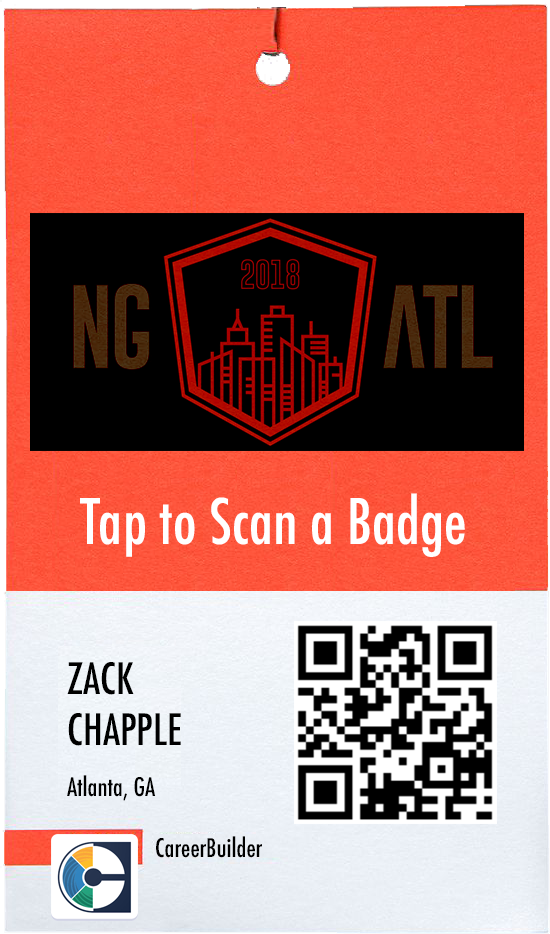
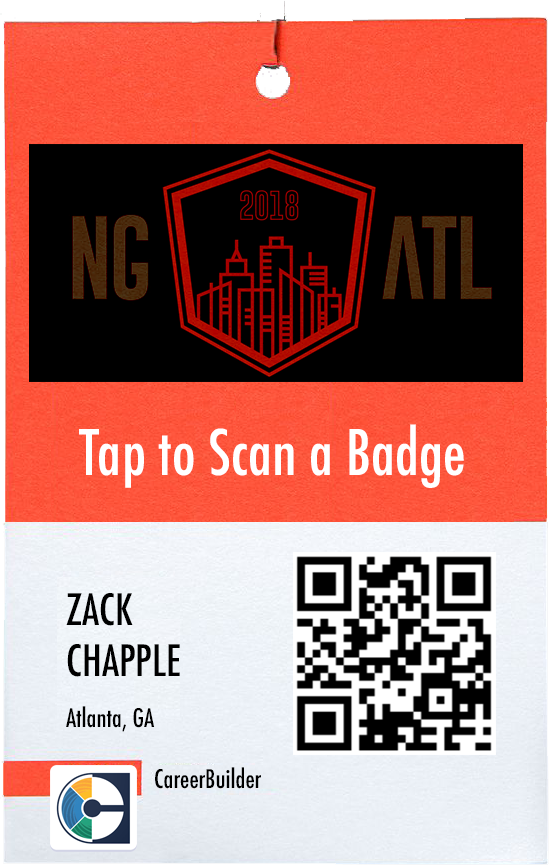
feat: home polish

diff --git a/apps/mobile/app/modules/home/components/dashboard/dashboard.component.ts b/apps/mobile/app/modules/home/components/dashboard/dashboard.component.ts
@@ -18,6 +18,11 @@ import { BaseComponent, UserActions, ModalActions, WindowService, ProgressServic
 
 // nativescript
 import { BarcodeScanner } from "nativescript-barcodescanner";
+import { Page } from 'tns-core-modules/ui/page';
+import { AnimationCurve } from 'tns-core-modules/ui/enums';
+import { View } from 'tns-core-modules/ui/core/view';
+import { Animation, AnimationDefinition } from 'tns-core-modules/ui/animation';
+import { screen, isIOS } from 'tns-core-modules/platform';
 
 // app
 import { BarcodeComponent } from '../../../shared/components/barcode/barcode.component';
@@ -37,8 +42,141 @@ export class DashboardComponent extends BaseComponent implements AfterViewInit, 
     private _vcRef: ViewContainerRef,
     private _win: WindowService,
     private _progressService: ProgressService,
+    private _page: Page,
   ) {
     super();
+    this._page.backgroundImage = 'res://home-bg';
+  }
+
+  public setupPage(e) {
+    console.log('setupPage:');
+    console.log(e.object);
+    console.log('screen:');
+    console.log(screen.mainScreen.widthDIPs + 'x' + screen.mainScreen.heightDIPs);
+    const top = <View>this._page.getViewById('badge-top');
+    const bottom = <View>this._page.getViewById('badge-bottom');
+    // console.log('image:', top);
+    // console.log('image width:', top.effectiveWidth);
+
+    bottom.animate({
+      translate: {
+        x: (screen.mainScreen.widthDIPs/2) - 275,
+        y: -600
+      },
+      scale: {
+        x: .6,
+        y: .6,
+      },
+      rotate:3,
+      duration: 1,
+      iterations: 1,
+    }).then(_ => {
+      bottom.animate({
+        translate: {
+          x: (screen.mainScreen.widthDIPs/2) - 275,
+          y: -80
+        },
+        scale: {
+          x: .6,
+          y: .6,
+        },
+        rotate: -8,
+        duration: 800,
+        iterations: 1,
+        curve: AnimationCurve.easeIn// AnimationCurve.spring
+      });
+    });
+
+    top.animate({
+      translate: {
+        x: (screen.mainScreen.widthDIPs/2) - 42,
+        y: -600
+      },
+      scale: {
+        x: .4,
+        y: .4,
+      },
+      rotate: 0,
+      duration: 1,
+      iterations: 1,
+    }).then(_ => {
+      top.animate({
+        translate: {
+          x: (screen.mainScreen.widthDIPs/2) - 42,
+          y: -180
+        },
+        scale: {
+          x: .4,
+          y: .4,
+        },
+        rotate: 18,
+        duration: 800,
+        iterations: 1,
+        curve: AnimationCurve.easeIn,
+      });
+    });
+
+    this._playBeacon();
+  }
+
+  private _playBeacon(delay: number = 1000) {
+    if (this._page) {
+      const beacon = <View>this._page.getViewById('beacon');
+      if (beacon) {
+        beacon.animate({
+          translate: {
+            x: (screen.mainScreen.widthDIPs/2) - 46,
+            y: 260
+          },
+          scale: {
+            x: .5,
+            y: .5,
+          },
+          opacity:0,
+          duration: 1,
+          iterations: 1
+        }).then(_ => {
+          beacon.animate({
+            translate: {
+              x: (screen.mainScreen.widthDIPs/2) - 46,
+              y: 260
+            },
+            scale: {
+              x: 1.5,
+              y: 1.5,
+            },
+            delay,
+            opacity:.8,
+            duration: 500,
+            iterations: 1,
+            curve: AnimationCurve.easeIn
+          }).then(_ => {
+            beacon.animate({
+              translate: {
+                x: (screen.mainScreen.widthDIPs/2) - 46,
+                y: 260
+              },
+              scale: {
+                x: 3,
+                y: 3,
+              },
+              opacity:0,
+              duration: 500,
+              iterations: 1,
+              curve: AnimationCurve.easeOut
+            }).then(_ => {
+              this._playBeacon(800);
+            }, _ => {
+
+            });
+          }, _ => {
+
+          });
+        }, _ => {
+
+        });
+      }
+    }
   }
 
   public openBarcode() {
@@ -91,7 +229,8 @@ export class DashboardComponent extends BaseComponent implements AfterViewInit, 
             this._barcode.scan( {
               formats: "QR_CODE,PDF_417,EAN_13",   // Pass in of you want to restrict scanning to certain types
               // cancelLabel: "EXIT. Also, try the volume buttons!", // iOS only, default 'Close'
-              cancelLabelBackgroundColor: "#333333", // iOS only, default '#000000' (black)
+              cancelLabel: 'Cancel',
+              cancelLabelBackgroundColor: "#000", // iOS only, default '#000000' (black)
               message: "Use the volume buttons for extra light", // Android only, default is 'Place a barcode inside the viewfinder rectangle to scan it.'
               showFlipCameraButton: true,   // default false
               preferFrontCamera: false,     // default false
@@ -124,7 +263,7 @@ export class DashboardComponent extends BaseComponent implements AfterViewInit, 
           this._openScanner(false); // prevent loop on
         } );
       } else {
-        this._win.alert( 'Please enable camera permissions in your device settings.' );
+        //this._win.alert( 'Please enable camera permissions in your device settings.' );
       }
     } );
   }

diff --git a/apps/mobile/app/modules/home/components/dashboard/dashboard.component.html b/apps/mobile/app/modules/home/components/dashboard/dashboard.component.html
@@ -1,6 +1,12 @@
 <ngatl-ns-action-bar class="action-bar">
 </ngatl-ns-action-bar>
-<ScrollView class="page">
+<AbsoluteLayout (loaded)="setupPage($event)" class="w-full h-full home-bg">
+    <Image src="res://badge-bottom.png" id="badge-bottom" (tap)="openBarcode()"></Image>
+    <Image src="res://badge-top.png" id="badge-top"></Image>
+    <Label text="" id="beacon" class="beacon"></Label>
+    
+</AbsoluteLayout>
+<!-- <ScrollView class="page">
   <StackLayout class="page">
     <StackLayout class="card">
       <Button text="Barcode" (tap)="openBarcode()"></Button>
@@ -34,4 +40,4 @@
       </StackLayout>
     </StackLayout>
   </StackLayout>
-</ScrollView>
+</ScrollView> -->

diff --git a/apps/mobile/app/modules/home/components/home/home.component.html b/apps/mobile/app/modules/home/components/home/home.component.html
@@ -1,5 +1,4 @@
-<RadSideDrawer tkToggleNavButton [drawerTransition]="sideDrawerTransition" selectionBehavior="None" width="100%">
-  <!--showOverNavigation="true" -->
+<RadSideDrawer tkToggleNavButton showOverNavigation="true" [drawerTransition]="sideDrawerTransition" selectionBehavior="None" width="100%">
   <StackLayout tkDrawerContent class="sidedrawer-left">
     <FlexBoxLayout class="sidedrawer-header" paddingTop="20" height="168">
         <Image src="res://ngATL" [nsRouterLink]="['/landing/home']" class="sidedrawer-header-image"></Image>

diff --git a/apps/mobile/app/scss/_common.scss b/apps/mobile/app/scss/_common.scss
@@ -17,6 +17,19 @@
         font-size: 30;
     }
 
+    .home-bg {
+        background-image: url('res://home-bg');
+        background-repeat: no-repeat;
+        background-position: center;
+        background-size: cover;
+    }
+
+    .beacon {
+        border-radius: 47;
+        background-color:$blue-light;
+        width:100;
+        height:100;
+    }
     //override for action-bar colored fonticons
     .action-bar Button {
         color: $white;

diff --git a/apps/mobile/app/modules/home/components/home/home.component.ts b/apps/mobile/app/modules/home/components/home/home.component.ts
@@ -42,7 +42,7 @@ export class HomeComponent implements AfterViewInit, OnInit {
     public drawerService: DrawerService
   ) {
     // this.page.on('loaded', this.onLoaded, this);
-    this._sideDrawerTransition = new ScaleDownPusherTransition();//SlideInOnTopTransition();
+    this._sideDrawerTransition = new SlideInOnTopTransition();
   }
 
   public get sideDrawerTransition(): DrawerTransitionBase {

diff --git a/apps/mobile/app/modules/speakers/effects/speaker.effect.ts b/apps/mobile/app/modules/speakers/effects/speaker.effect.ts
@@ -55,7 +55,7 @@ export class SpeakerEffects {
     .ofType(SpeakerActions.ActionTypes.API_ERROR)
     .withLatestFrom(this.store)
     .map(([action, state]: [SpeakerActions.ApiErrorAction, any]) => {
-      this.win.alert(action.payload);
+      //this.win.alert(action.payload);
       return new SpeakerActions.ChangedAction({
         errors: [action.payload, ...(state.errors || [])]
       });

diff --git a/apps/mobile/app/modules/sponsors/effects/sponsor.effect.ts b/apps/mobile/app/modules/sponsors/effects/sponsor.effect.ts
@@ -54,7 +54,7 @@ export class SponsorEffects {
     .ofType(SponsorActions.ActionTypes.API_ERROR)
     .withLatestFrom(this.store)
     .map(([action, state]: [SponsorActions.ApiErrorAction, any]) => {
-      this.win.alert(action.payload);
+      //this.win.alert(action.payload);
       return new SponsorActions.ChangedAction({
         errors: [action.payload, ...(state.errors || [])]
       });

diff --git a/apps/mobile/app/modules/events/effects/event.effect.ts b/apps/mobile/app/modules/events/effects/event.effect.ts
@@ -54,7 +54,7 @@ export class EventEffects {
     .ofType(EventActions.ActionTypes.API_ERROR)
     .withLatestFrom(this.store)
     .map(([action, state]: [EventActions.ApiErrorAction, any]) => {
-      this.win.alert(action.payload);
+      //this.win.alert(action.payload);
       return new EventActions.ChangedAction({
         errors: [action.payload, ...(state.errors || [])]
       });

diff --git a/apps/mobile/app/scss/_variables.scss b/apps/mobile/app/scss/_variables.scss
@@ -7,6 +7,7 @@ $gold: #fed03d;
 $dark-blue: #1b286c;
 $grey-slate: #4d4d4d;
 $grey-light: #999999;
+$blue-light: #4ac1fa;
 
 $ab-background: #242424;
 $ab-color: $white;
